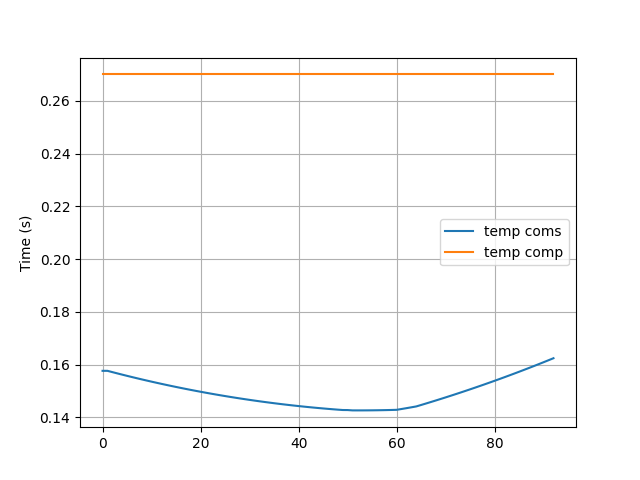
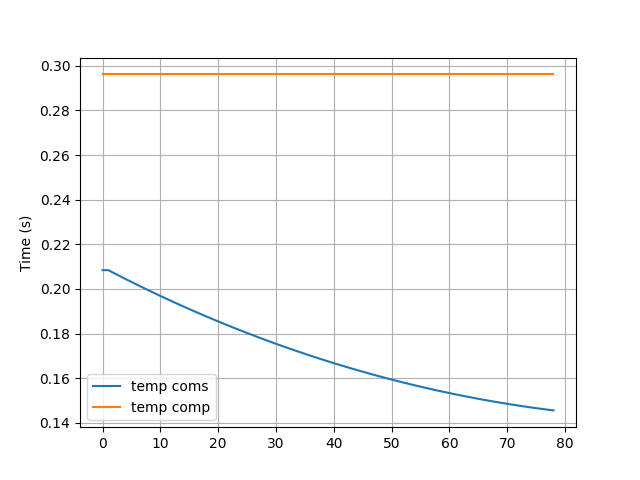
test with new location model

diff --git a/examples/network_optim.py b/examples/network_optim.py
@@ -7,10 +7,9 @@ from location_model import LocationModel
 from optimization import NewtonOptim
 
 class NetworkOptim:
-    def __init__(self, num_users, num_samples, data_size, updated_dist, sce_idx=4):
-        # Location parameters 
-        self.updated_dist = updated_dist
-        self.loc_model = LocationModel(num_users, updated_dist)
+    def __init__(self, num_users, num_samples, data_size, velocity=11, ts_duration=0.4, sce_idx=4):
+        # Location parameters
+        self.loc_model = LocationModel(num_users, velocity=velocity, timeslot_duration=ts_duration)
         self.uav_gains, self.bs_gains = self.calc_channel_gains() # init channel gains
 
         # Federated learning parameters 
@@ -362,6 +361,7 @@ class NetworkOptim:
         Return: 
             (eta, freqs, decs, powers)
         """
+        self.tau = tau
         decs = self.init_decisions()
         
         # Found optimal solutions for the current round 
@@ -377,6 +377,7 @@ class NetworkOptim:
         Return: 
             (eta, freqs, decs, powers)
         """
+        self.tau = tau 
         eps_eta = 1e-3 # tolerance accuracy of eta
 
         # Initialize a feasible solution 
@@ -471,31 +472,12 @@ class NetworkOptim:
         t_total = t_co + t_cp 
         return t_total
 
-def test_with_location():
-    num_users = 10 
-    num_samples = np.array([117, 110, 165, 202, 454, 112, 213, 234, 316, 110])
-    data_size = np.array([s_n for _ in range(num_users)])
-
-    netopt = NetworkOptim(num_users, num_samples, data_size, updated_dist=500) 
-
-    freqs = np.array([1, 0.6, 2, 0.3, 0.4, 0.5, 1.5, 1.2, 0.3, 1]) * 1e9 # max = 2GHz
-    num_rounds = 30
-
-    cp_ene = netopt.calc_comp_energy(num_rounds, freqs)
-    print(f"cp_ene =", cp_ene)
-    cp_time = netopt.calc_comp_time(num_rounds, freqs)
-    print(f"cp_time = {cp_time}")
-
-    decs = np.array([1, 0, 1, 0, 0, 1, 1, 0, 1, 0])
-    eta = 0.15
-    freqs, powers = netopt.solve_freqs_powers(eta, decs, tau=100)
-
 def test_optimize_network(): 
     num_users = 10 
     num_samples = np.array([117, 110, 165, 202, 454, 112, 213, 234, 316, 110])
     data_size = np.array([s_n for _ in range(num_users)])
 
-    netopt = NetworkOptim(num_users, num_samples, data_size, updated_dist=500) 
+    netopt = NetworkOptim(num_users, num_samples, data_size) 
 
     eta, freqs, decs, powers = netopt.optimize_network_bs_uav()
 
@@ -513,7 +495,7 @@ def test_feasible_solution():
     num_samples = np.array([117, 110, 165, 202, 454, 112, 213, 234, 316, 110])
     data_size = np.array([s_n for _ in range(num_users)])
 
-    netopt = NetworkOptim(num_users, num_samples, data_size, updated_dist=500) 
+    netopt = NetworkOptim(num_users, num_samples, data_size) 
     eta, t_min = netopt.initialize_feasible_solution()
 
     print(f"eta = {eta}")

diff --git a/examples/system_model.py b/examples/system_model.py
@@ -9,9 +9,9 @@ seed = 1
 rng = np.random.default_rng(seed=seed)
 
 class SystemModel: 
-    def __init__(self, mod_name='CustomLogisticRegression', mod_dim=(5, 3), dataset_name='synthetic', num_users=10, updated_dist=10, sce_idx=4):
+    def __init__(self, mod_name='CustomLogisticRegression', mod_dim=(5, 3), dataset_name='synthetic', num_users=10, velocity=11, ts_duration=0.4, sce_idx=4):
         self.fed_model = self.init_federated(mod_name, mod_dim, dataset_name)
-        self.net_optim = self.init_netoptim(num_users, updated_dist, self.fed_model, sce_idx)
+        self.net_optim = self.init_netoptim(num_users, velocity, ts_duration, self.fed_model, sce_idx)
         print("SystemModel __init__!")
 
     def init_federated(self, mod_name, mod_dim, dataset_name):
@@ -22,13 +22,13 @@ class SystemModel:
         fed_model = BaseFederated(model, mod_dim, dataset)
         return fed_model 
     
-    def init_netoptim(self, num_users, updated_dist, fed_model, sce_idx): 
+    def init_netoptim(self, num_users, velocity, ts_duration, fed_model, sce_idx): 
         r""" Network Optimization Model"""  
         num_samples = fed_model.get_num_samples()
         msize = fed_model.get_mod_size()
         data_size = np.array([msize for _ in range(num_users)])
         
-        net_optim = NetworkOptim(num_users, num_samples, data_size, updated_dist, sce_idx)
+        net_optim = NetworkOptim(num_users, num_samples, data_size, velocity, ts_duration, sce_idx)
         return net_optim
     
     def train_dyni(self, idx_sce, tau): 
@@ -101,7 +101,7 @@ class SystemModel:
         print("Done!")    
 
 def test(idx_sce=4, tau=40): 
-    sm = SystemModel(updated_dist=2.5, sce_idx=idx_sce)
+    sm = SystemModel(sce_idx=idx_sce)
     if idx_sce == 4 or idx_sce == 2: 
         sm.train_dyni(idx_sce, tau)
     if idx_sce == 3: 

diff --git a/examples/plot_synthetic.py b/examples/plot_synthetic.py
@@ -373,8 +373,8 @@ if __name__=='__main__':
     # test_fixedi()
     # test_server_model()
     # test_combine()
-    plot_location_ani('./logs/location_model.log', './figures/location_ani.gif')
-    # main()
+    # plot_location_ani('./logs/location_model.log', './figures/location_ani.gif')
     # plot_gain_density()
     # test_plot_maps(1, 1)
     # plot_SNR()
+    main()
